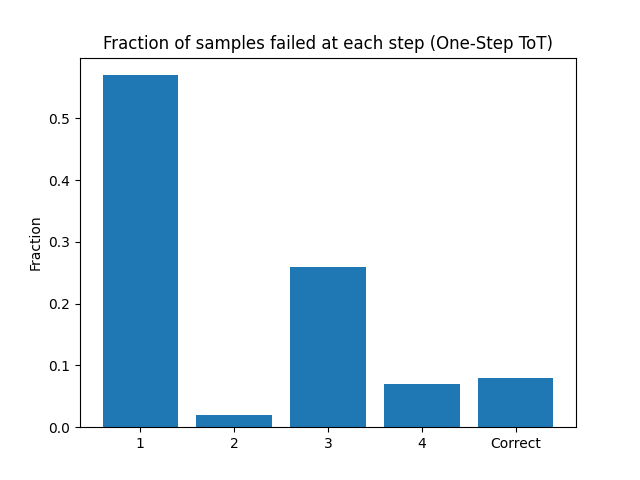
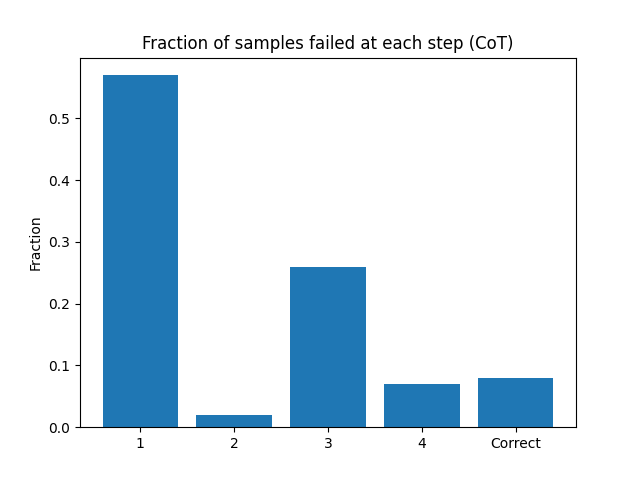
fix graph

Changed region(s): [[0.1562, 0.0625, 0.875, 0.125]]

diff --git a/cot_testing.py b/cot_testing.py
@@ -208,7 +208,7 @@ def generate_plots_one_step_tot():
         fig,ax = plt.subplots()
         ax.bar(categories, values)
         ax.set_ylabel("Fraction")
-        extension = "(One-Step ToT)" if data==gpt4ocsv else ""
+        extension = "(CoT)" if data==gpt4ocsv else ""
         ax.set_title("Fraction of samples failed at each step " + extension)
         plt.savefig("plots/cot_game24.png")
     return
